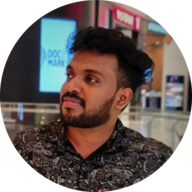
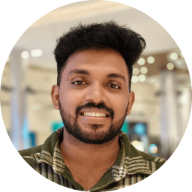
Change profile pic and update experience

diff --git a/components/main/about/index.tsx b/components/main/about/index.tsx
@@ -33,6 +33,18 @@ import classes from "./about.module.scss";
 const experience = [
   {
     id: 1,
+    institute: "OpenTable (Booking Holdings Inc)",
+    startDate: "Jan 2025",
+    endDate: "Present",
+    designation: "Engineer II",
+    worksDone: [
+      "Develop and maintain responsive, high-performance React applications focused on restaurant-facing features, enabling restaurants to efficiently manage reservations, guest experiences, and table availability.",
+      "Partner closely with product, design, and backend teams to architect and deliver robust, maintainable UI solutions using React, Redux, and TypeScript — ensuring seamless alignment with OpenTable’s modular platform architecture and elevating the experience for restaurant partners worldwide.",
+      "Contribute to feature rollouts and iterative improvements within the restaurant operations suite, enhancing usability and performance across web tools used by thousands of restaurants globally.",
+    ],
+  },
+  {
+    id: 2,
     institute: "QBurst",
     startDate: "Jan 2024",
     endDate: "Present",
@@ -44,7 +56,7 @@ const experience = [
     ],
   },
   {
-    id: 2,
+    id: 3,
     institute: "QBurst",
     startDate: "Sep 2020",
     endDate: "Dec 2023",
@@ -52,45 +64,9 @@ const experience = [
     worksDone: [
       "Contribute to collaborative development, ensuring seamless user experiences for a multinational fashion retail giant's SPA, serving more than 40 million users and manage CI/CD for production releases, ensuring smooth deployment, and promptly resolving issues.",
       "Uphold high code quality, increasing test coverage from 62% to 85%, resulting in fewer bugs in subsequent releases and refactor code for scalable React architecture, enabling global expansion and adaptability.",
-      "Developed proof of concept tools for API visualization, addressing customer-reported issues and actively participate in planning and executing internal tools projects, optimizing build sizes, and ensuring efficient code sharing.",
-      "Contributed significantly to internal tools projects, actively engaging in planning, execution, and code review phases. Demonstrated unwavering dedication to fostering efficient code sharing and maintenance practices across the development lifecycle. These applications played a vital role, catering to the diverse needs of over seven different teams within the company.",
+      "Developed proof of concept tools for API visualization, addressing customer-reported issues and actively participate in planning and executing internal tools projects, optimizing build sizes, and ensuring efficient code sharing."
     ],
-  },
-  {
-    id: 3,
-    institute: "IIT-BHU",
-    startDate: "June 2019",
-    endDate: "Aug 2019",
-    designation: "Trainee",
-    worksDone: [
-      "Worked on designing, simulating and testing of Meta-Surface based Antennas for radio frequency wireless communication.",
-      <span key="pub1">
-        One of my first works was approved and published in the{" "}
-        <a
-          style={{ textDecoration: "underline" }}
-          target="blank"
-          href="https://www.springerprofessional.de/en/dual-band-fss-backed-printed-antenna-with-fractal-geometry-for-w/18830738"
-        >
-          {" "}
-          7th international conference on Computer and devices for Communication
-          (CODEC)
-        </a>{" "}
-        held on December, 2019
-      </span>,
-      <span key="pub2">
-        Later on I came up with my second prototype and was published in{" "}
-        <a
-          style={{ textDecoration: "underline" }}
-          target="blank"
-          href="https://ieeexplore.ieee.org/document/9113517"
-        >
-          {" "}
-          2020 URSI Regional Conference on Radio Science (IEEE)
-        </a>
-        .
-      </span>,
-    ],
-  },
+  }
 ];
 const education = [
   {

diff --git a/pages/projects/index.tsx b/pages/projects/index.tsx
@@ -9,7 +9,6 @@ import Layout from "../../components/layout/layout";
 import { projects } from "../../mock/projects";
 import { ScrollDown } from "../../components/scrolldown";
 import { TechUsed } from "../../components/techUsed";
-import Cursor from "../../components/Cursor";
 
 function Projects() {
   //alternative for data fetching
@@ -23,7 +22,6 @@ function Projects() {
   };
   return (
     <>
-      <Cursor />
       <Layout variant="l2" title="Projects">
         <Grid container sx={{ marginTop: "2rem" }}>
           {projects?.map((data: any) => (

diff --git a/pages/index.tsx b/pages/index.tsx
@@ -64,7 +64,6 @@ const Main = () => {
           <TabContext.Provider value={{ tabValue, handleTabChange }}>
             <Layout variant="l1">
               <>
-                <Cursor />
                 <Background />
                 <section ref={homeRef} className={classes["section__home"]}>
                   <Home />

diff --git a/components/layout/layout.css b/components/layout/layout.css
@@ -6,7 +6,6 @@ body {
     transition: background-image 0.1s ease, color 0.1s ease;
     background-color: none;
     font-size: 1rem;
-    cursor: none;
 }
 
 ::-webkit-scrollbar {

diff --git a/pages/projects/[projectSlug].tsx b/pages/projects/[projectSlug].tsx
@@ -43,7 +43,6 @@ const Project = ({
   };
   return (
     <>
-      <Cursor />
       <Layout variant="l3" title="Projects">
         <Box
           sx={{
